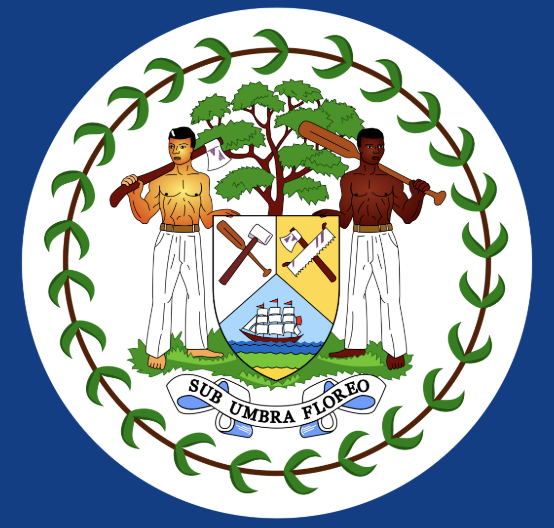
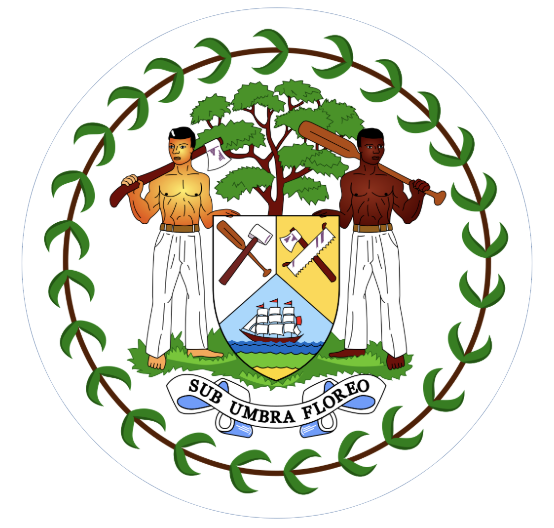
hw

diff --git a/homework/cchw5.html b/homework/cchw5.html
@@ -1,0 +1,114 @@
+<!DOCTYPE html>
+<html>
+<head>
+	<title></title>
+	<style>
+	html,body{
+		display: flex;
+		justify-content: center;
+		align-items: center;
+		height: 100%;
+		background-color: #FCBF24;
+	}
+	h1{
+		font-size: 15vmin;
+		font-family: Arial, Helvetica, sans-serif;
+		font-style: italic;
+
+	}
+	</style>
+</head>
+<body>
+	<h1 id= "fruits"></h1>
+	<script> 
+		var choices = [ "apple",
+				        "apricot",
+				        "avocado",
+				        "banana",
+				        "bell pepper",
+				        "bilberry",
+				        "blackberry",
+				        "blackcurrant",
+				        "blood orange",
+				        "blueberry",
+				        "boysenberry",
+				        "breadfruit",
+				        "canary melon",
+				        "cantaloupe",
+				        "cherimoya",
+				        "cherry",
+				        "chili pepper",
+				        "clementine",
+				        "cloudberry",
+				        "coconut",
+				        "cranberry",
+				        "cucumber",
+				        "currant",
+				        "damson",
+				        "date",
+				        "dragonfruit",
+				        "durian",
+				        "eggplant",
+				        "elderberry",
+				        "feijoa",
+				        "fig",
+				        "goji berry",
+				        "gooseberry",
+				        "grape",
+				        "grapefruit",
+				        "guava",
+				        "honeydew",
+				        "huckleberry",
+				        "jackfruit",
+				        "jambul",
+				        "jujube",
+				        "kiwi fruit",
+				        "kumquat",
+				        "lemon",
+				        "lime",
+				        "loquat",
+				        "lychee",
+				        "mandarine",
+				        "mango",
+				        "mulberry",
+				        "nectarine",
+				        "nut",
+				        "olive",
+				        "orange",
+				        "pamelo",
+				        "papaya",
+				        "passionfruit",
+				        "peach",
+				        "pear",
+				        "persimmon",
+				        "physalis",
+				        "pineapple",
+				        "plum",
+				        "pomegranate",
+				        "pomelo",
+				        "purple mangosteen",
+				        "quince",
+				        "raisin",
+				        "rambutan",
+				        "raspberry",
+				        "redcurrant",
+				        "rock melon",
+				        "salal berry",
+				        "satsuma",
+				        "star fruit",
+				        "strawberry",
+				        "tamarillo",
+				        "tangerine",
+				        "tomato",
+				        "ugli fruit",
+				        "watermelon"  ];
+
+    	var number = Math.random() * 79;
+    	var integer = parseInt(number);
+
+    	document.getElementById("fruits").innerHTML = "Gimmie my " + choices[integer] + " :).";
+
+	</script>
+
+</body>
+</html>

diff --git a/classwork/06/belize-flag.html b/classwork/06/belize-flag.html
@@ -24,10 +24,13 @@
 
 		img{
 			position:absolute;
-			top:50%;
+			margin-top: -35vmin;
+			margin-left: -35vmin;
+			top: 50%;
 			left: 50%;
-			margin-left: -50%;
-			height:70%;
+			width: 70vmin;
+			height: 70vmin;
+
 		}
 	</style>
 </head>
